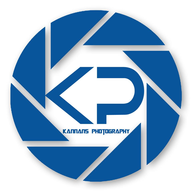
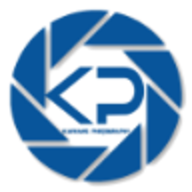
Changes

diff --git a/contact.html b/contact.html
@@ -8,6 +8,7 @@
     <title>Contact Us | Photography</title>
     
     <!-- core CSS -->
+    <link href="css/load.css" rel="stylesheet">
     <link href="css/bootstrap.min.css" rel="stylesheet">
     <link href="css/font-awesome.min.css" rel="stylesheet">
     <link href="css/prettyPhoto.css" rel="stylesheet">
@@ -40,7 +41,7 @@
 </head><!--/head-->
 
 <body>
-
+		<div id="load"></div>
     <header id="header">
         <div class="top-bar">
             <div class="container">
@@ -78,7 +79,7 @@
                         <li><a href="about_us.html">About Us</a></li>
                         <li><a href="services.html">Services</a></li>
                         <li><a href="portfolio.html">Portfolio</a></li>
-                        <li class="active"><a href="contact_us.html">Contact</a></li>                        
+                        <li class="active"><a href="contact.html">Contact</a></li>                        
                     </ul>
                 </div>
             </div><!--/.container-->
@@ -135,15 +136,27 @@
                             <input type="number" name="phone" required="required" class="form-control">
                         </div>
                         <div class="form-group">
-                            <label>Subject *</label>
-                            <input type="text" name="subject" class="form-control" required="required">
+                            <label>Event Type *</label>
+                            <select name="subject" class="form-control" required="required">
+                              <option value="">Event Type</option>
+                              <option value="Wedding">Wedding</option>
+                              <option value="Babies &amp; Kids">Babies &amp; Kids</option>
+                              <option value="Fashion &amp; Portfolio">Fashion &amp; Portfolio</option>
+                              <option value="Commercial">Commercial</option>
+                              <option value="Special Occasion">Special occasion</option>
+                              <option value="Corporate Events">Corporate Events</option>
+                              <option value="Travel">Travel</option>
+                              <option value="Nature">Nature</option>
+                              <option value="Others">Others</option>
+                            </select>
                         </div>
                     </div>
                     <div class="col-sm-5">
                         <div class="form-group">
                             <label>Message *</label>
                             <textarea name="message" id="message" required="required" class="form-control" rows="8"></textarea>
-                        </div>                        
+                        </div>
+                        <div class="g-recaptcha" data-sitekey="6LcBsBIUAAAAALlqGDzOAEod4-RJIQRhqe9CdkK5"></div>
                         <div class="form-group">
                             <button type="submit" name="submit" class="btn btn-primary btn-lg" required="required">Submit Message</button>
                         </div>
@@ -157,14 +170,14 @@
         <div class="container">
             <div class="row">
                 <div class="col-sm-6">
-                    &copy; 2016 <a target="_blank" href="http://shapebootstrap.net/" title="Free Twitter Bootstrap WordPress Themes and HTML templates">ShapeBootstrap</a>. All Rights Reserved.
+                    &copy; 2017 <a target="_blank" href="#">Photography</a>. All Rights Reserved.
                 </div>
                 <div class="col-sm-6">
                     <ul class="pull-right">
-                        <li><a href="#">Home</a></li>
-                        <li><a href="#">About Us</a></li>
-                        <li><a href="#">Faq</a></li>
-                        <li><a href="#">Contact Us</a></li>
+                        <li><a href="index.html">Home</a></li>
+                        <li><a href="about_us.html">About Us</a></li>
+                        <!-- <li><a href="#">Faq</a></li> -->
+                        <li><a href="contact.html">Contact Us</a></li>
                     </ul>
                 </div>
             </div>
@@ -179,5 +192,7 @@
     <script src="js/pages/contact.js"></script>
     <script src="js/main.js"></script>
     <script src="js/wow.min.js"></script>
+    <script src='https://www.google.com/recaptcha/api.js'></script>
+    <script src="js/vendor/load.js"></script>
 </body>
 </html>

diff --git a/about_us.html b/about_us.html
@@ -8,6 +8,7 @@
     <title>About Us | Photography</title>
 	
 	<!-- core CSS -->
+    <link href="css/load.css" rel="stylesheet">
     <link href="css/bootstrap.min.css" rel="stylesheet">
     <link href="css/font-awesome.min.css" rel="stylesheet">
     <link href="css/prettyPhoto.css" rel="stylesheet">
@@ -40,7 +41,7 @@
 </head><!--/head-->
 
 <body>
-
+    <div id="load"></div>
     <header id="header">
         <div class="top-bar">
             <div class="container">
@@ -78,7 +79,7 @@
                         <li class="active"><a href="about_us.html">About Us</a></li>
                         <li><a href="services.html">Services</a></li>
                         <li><a href="portfolio.html">Portfolio</a></li>
-                        <li><a href="contact_us.html">Contact</a></li>                        
+                        <li><a href="contact.html">Contact</a></li>                        
                     </ul>
                 </div>
             </div><!--/.container-->
@@ -130,14 +131,14 @@
         <div class="container">
             <div class="row">
                 <div class="col-sm-6">
-                    &copy; 2016 <a target="_blank" href="http://shapebootstrap.net/" title="Free Twitter Bootstrap WordPress Themes and HTML templates">ShapeBootstrap</a>. All Rights Reserved.
+                    &copy; 2017 <a target="_blank" href="#">Photography</a>. All Rights Reserved.
                 </div>
                 <div class="col-sm-6">
                     <ul class="pull-right">
-                        <li><a href="#">Home</a></li>
-                        <li><a href="#">About Us</a></li>
-                        <li><a href="#">Faq</a></li>
-                        <li><a href="#">Contact Us</a></li>
+                        <li><a href="index.html">Home</a></li>
+                        <li><a href="about_us.html">About Us</a></li>
+                        <!-- <li><a href="#">Faq</a></li> -->
+                        <li><a href="contact.html">Contact Us</a></li>
                     </ul>
                 </div>
             </div>
@@ -146,13 +147,14 @@
     
 
     <script src="js/jquery.js"></script>
-    <script type="text/javascript">
-        $('.carousel').carousel()
-    </script>
     <script src="js/bootstrap.min.js"></script>
     <script src="js/jquery.prettyPhoto.js"></script>
     <script src="js/jquery.isotope.min.js"></script>
     <script src="js/main.js"></script>
     <script src="js/wow.min.js"></script>
+    <script type="text/javascript">
+        $('.carousel').carousel()
+    </script>
+    <script src="js/vendor/load.js"></script>
 </body>
 </html>

diff --git a/index.html b/index.html
@@ -8,6 +8,7 @@
     <title>Home | Photography</title>
 	
 	<!-- core CSS -->
+    <link href="css/load.css" rel="stylesheet">
     <link href="css/bootstrap.min.css" rel="stylesheet">
     <link href="css/font-awesome.min.css" rel="stylesheet">
     <link href="css/animate.min.css" rel="stylesheet">
@@ -39,7 +40,7 @@
 </head><!--/head-->
 
 <body class="homepage">
-
+    <div id="load"></div>
     <header id="header">
         <div class="top-bar">
             <div class="container">
@@ -73,11 +74,11 @@
 				
                 <div class="collapse navbar-collapse navbar-right">
                     <ul class="nav navbar-nav">
-                        <li class="active"><a href="/">Home</a></li>
+                        <li class="active"><a href="index.html">Home</a></li>
                         <li><a href="about_us.html">About Us</a></li>
                         <li><a href="services.html">Services</a></li>
                         <li><a href="portfolio.html">Portfolio</a></li>
-                        <li><a href="contact_us.html">Contact</a></li>                        
+                        <li><a href="contact.html">Contact</a></li>                        
                     </ul>
                 </div>
             </div><!--/.container-->
@@ -411,14 +412,14 @@
         <div class="container">
             <div class="row">
                 <div class="col-sm-6">
-                    &copy; 2016 <a target="_blank" href="http://shapebootstrap.net/" title="Free Twitter Bootstrap WordPress Themes and HTML templates">ShapeBootstrap</a>. All Rights Reserved.
+                    &copy; 2017 <a target="_blank" href="#">Photography</a>. All Rights Reserved.
                 </div>
                 <div class="col-sm-6">
                     <ul class="pull-right">
-                        <li><a href="#">Home</a></li>
-                        <li><a href="#">About Us</a></li>
-                        <li><a href="#">Faq</a></li>
-                        <li><a href="#">Contact Us</a></li>
+                        <li><a href="index.html">Home</a></li>
+                        <li><a href="about_us.html">About Us</a></li>
+                        <!-- <li><a href="#">Faq</a></li> -->
+                        <li><a href="contact.html">Contact Us</a></li>
                     </ul>
                 </div>
             </div>
@@ -431,5 +432,6 @@
     <script src="js/jquery.isotope.min.js"></script>
     <script src="js/main.js"></script>
     <script src="js/wow.min.js"></script>
+    <script src="js/vendor/load.js"></script>
 </body>
 </html>

diff --git a/portfolio.html b/portfolio.html
@@ -6,6 +6,8 @@
     <meta name="description" content="">
     <meta name="author" content="">
     <title>Portfolio | Photography</title>
+
+    <link href="css/load.css" rel="stylesheet">
     <link href="css/bootstrap.min.css" rel="stylesheet">
     <link href="css/font-awesome.min.css" rel="stylesheet">
     <link href="css/prettyPhoto.css" rel="stylesheet">
@@ -36,7 +38,7 @@
     <meta name="theme-color" content="#085599">
 </head><!--/head-->
 <body>
-
+    <div id="load"></div>
     <header id="header">
         <div class="top-bar">
             <div class="container">
@@ -74,7 +76,7 @@
                         <li><a href="about_us.html">About Us</a></li>
                         <li><a href="services.html">Services</a></li>
                         <li class="active"><a href="portfolio.html">Portfolio</a></li>
-                        <li><a href="contact_us.html">Contact</a></li>                        
+                        <li><a href="contact.html">Contact</a></li>                        
                     </ul>
                 </div>
             </div><!--/.container-->
@@ -194,14 +196,14 @@
         <div class="container">
             <div class="row">
                 <div class="col-sm-6">
-                    &copy; 2016 <a target="_blank" href="http://shapebootstrap.net/" title="Free Twitter Bootstrap WordPress Themes and HTML templates">ShapeBootstrap</a>. All Rights Reserved.
+                    &copy; 2017 <a target="_blank" href="#">Photography</a>. All Rights Reserved.
                 </div>
                 <div class="col-sm-6">
                     <ul class="pull-right">
-                        <li><a href="#">Home</a></li>
-                        <li><a href="#">About Us</a></li>
-                        <li><a href="#">Faq</a></li>
-                        <li><a href="#">Contact Us</a></li>
+                        <li><a href="index.html">Home</a></li>
+                        <li><a href="about_us.html">About Us</a></li>
+                        <!-- <li><a href="#">Faq</a></li> -->
+                        <li><a href="contact.html">Contact Us</a></li>
                     </ul>
                 </div>
             </div>
@@ -214,5 +216,6 @@
     <script src="js/jquery.isotope.min.js"></script>
     <script src="js/main.js"></script>
     <script src="js/wow.min.js"></script>
+    <script src="js/vendor/load.js"></script>
 </body>
 </html>

diff --git a/services.html b/services.html
@@ -8,6 +8,7 @@
     <title>Services | Photography</title>
     
     <!-- core CSS -->
+    <link href="css/load.css" rel="stylesheet">
     <link href="css/bootstrap.min.css" rel="stylesheet">
     <link href="css/font-awesome.min.css" rel="stylesheet">
     <link href="css/prettyPhoto.css" rel="stylesheet">
@@ -40,7 +41,7 @@
 </head><!--/head-->
 
 <body>
-
+    <div id="load"></div>
     <header id="header">
         <div class="top-bar">
             <div class="container">
@@ -78,7 +79,7 @@
                         <li><a href="about_us.html">About Us</a></li>
                         <li class="active"><a href="services.html">Services</a></li>
                         <li><a href="portfolio.html">Portfolio</a></li>
-                        <li><a href="contact_us.html">Contact</a></li>                        
+                        <li><a href="contact.html">Contact</a></li>                        
                     </ul>
                 </div>
             </div><!--/.container-->
@@ -190,14 +191,14 @@
         <div class="container">
             <div class="row">
                 <div class="col-sm-6">
-                    &copy; 2016 <a target="_blank" href="http://shapebootstrap.net/" title="Free Twitter Bootstrap WordPress Themes and HTML templates">ShapeBootstrap</a>. All Rights Reserved.
+                    &copy; 2017 <a target="_blank" href="#">Photography</a>. All Rights Reserved.
                 </div>
                 <div class="col-sm-6">
                     <ul class="pull-right">
-                        <li><a href="#">Home</a></li>
-                        <li><a href="#">About Us</a></li>
-                        <li><a href="#">Faq</a></li>
-                        <li><a href="#">Contact Us</a></li>
+                        <li><a href="index.html">Home</a></li>
+                        <li><a href="about_us.html">About Us</a></li>
+                        <!-- <li><a href="#">Faq</a></li> -->
+                        <li><a href="contact.html">Contact Us</a></li>
                     </ul>
                 </div>
             </div>
@@ -210,5 +211,6 @@
     <script src="js/jquery.isotope.min.js"></script>
     <script src="js/main.js"></script>
     <script src="js/wow.min.js"></script>
+    <script src="js/vendor/load.js"></script>
 </body>
 </html>

diff --git a/css/custom.css b/css/custom.css
@@ -3,7 +3,7 @@
 	color: #000;
 }
 .header-logo{
-	max-width: 60px;
+	max-height: 60px;
 }
 .navbar-toggle{
 	background-color: #191919;
@@ -41,9 +41,9 @@ section#contact-info{
 
 .navbar-inverse {
   border-bottom: 1px solid #222;
-  -webkit-box-shadow:0px 1px 1px #de1dde;
-  -moz-box-shadow:0px 1px 1px #de1dde;
-  box-shadow:0px 1px 1px #de1dde;
+  -webkit-box-shadow:0px 1px 1px #085599;
+  -moz-box-shadow:0px 1px 1px #085599;
+  box-shadow:0px 1px 1px #085599;
 }
 .btn-slide.animation{
 	margin-bottom: 120px;

diff --git a/js/pages/contact.js b/js/pages/contact.js
@@ -13,7 +13,7 @@ $(function() {
     messages: {
       name: "Please enter your name",
       phone: "Please enter your phone number",
-      subject: "Please enter the subject",
+      subject: "Please select the event type",
       message: "Please enter the message",
       email: {
         required: "Please provide an email address",

diff --git a/css/load.css b/css/load.css
@@ -1,0 +1,8 @@
+#load{
+  width:100%;
+  height:100%;
+  position:fixed;
+  z-index:9999;
+  /*background:url("../images/logo_animated.gif") no-repeat center center rgba(0,0,0,0.20)*/
+  background: rgba(0,0,0,0.20)
+}
